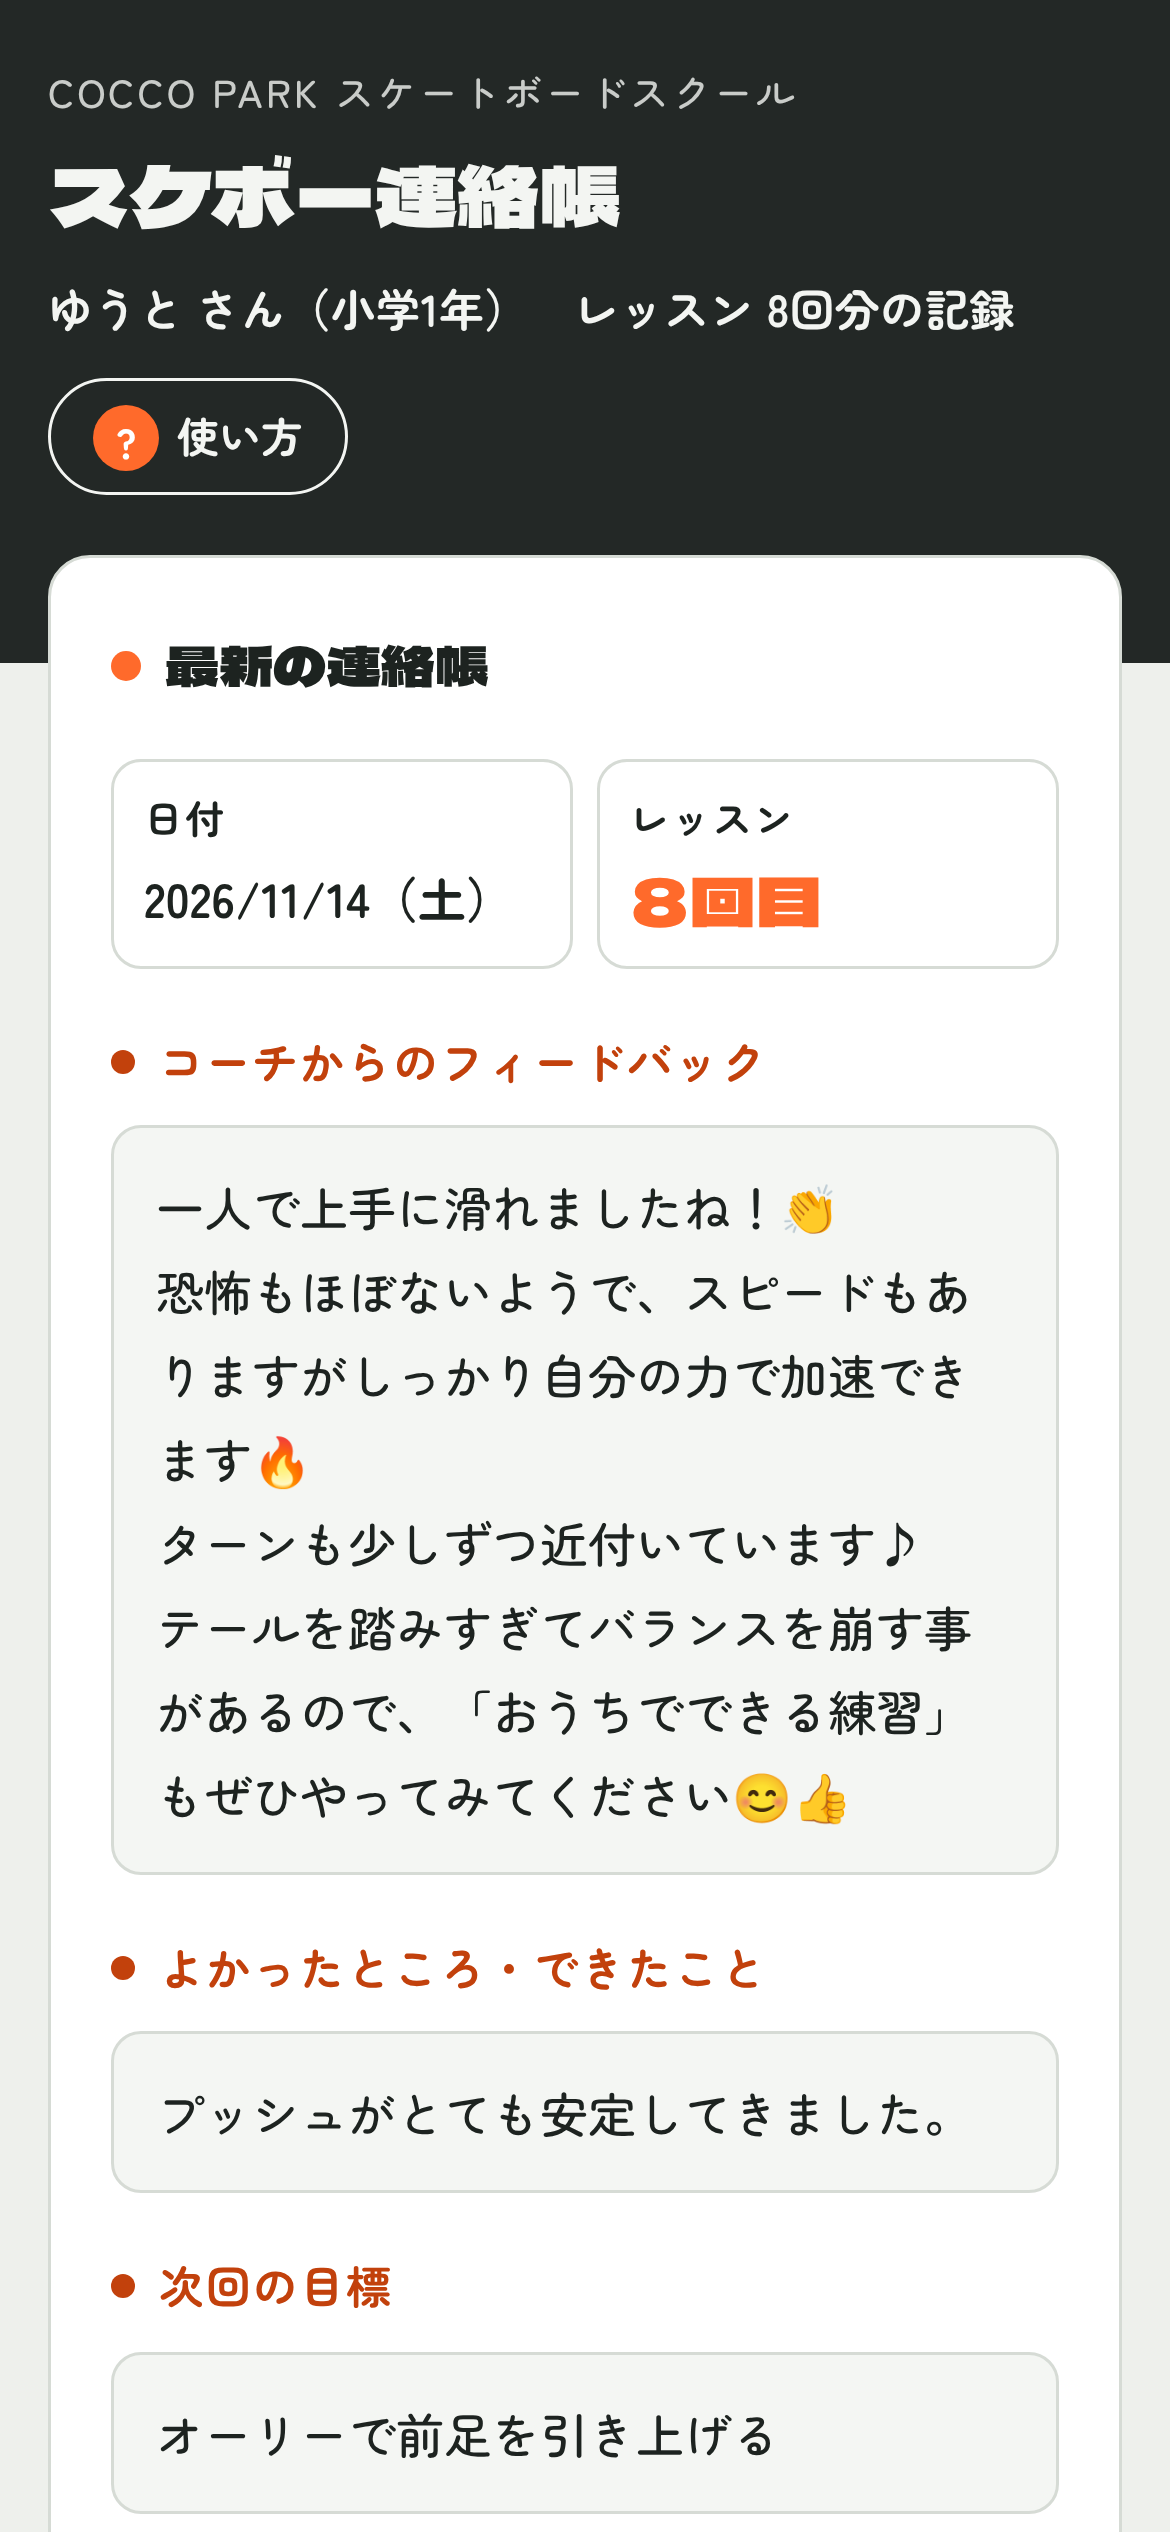
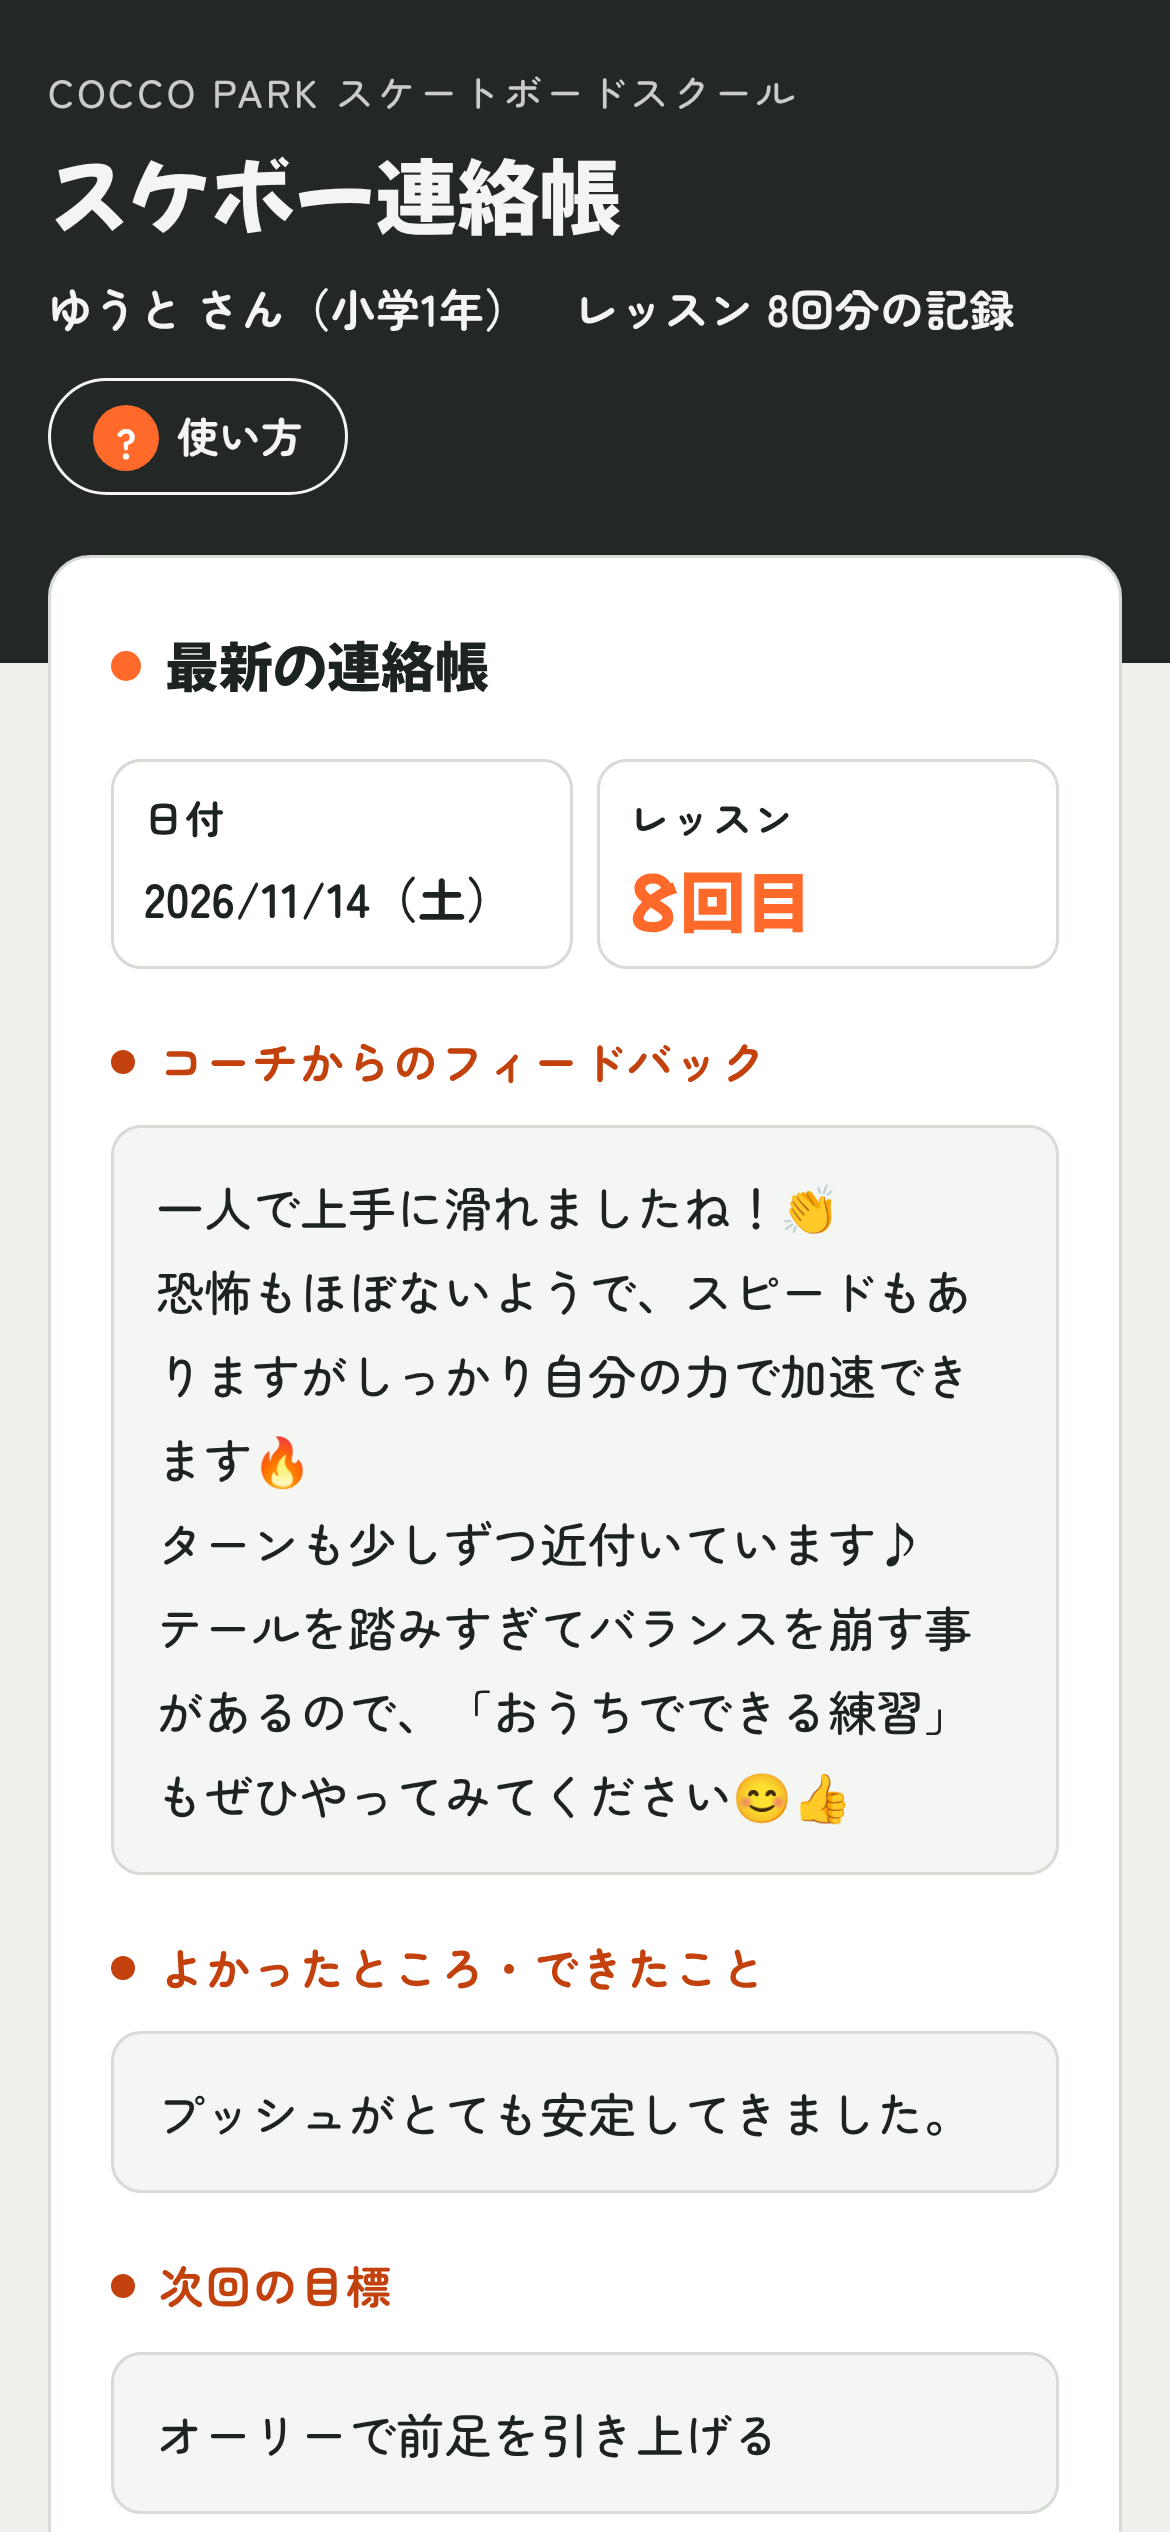
見出しの書体を漢字も読みやすい Mochiy Pop One に変更（アプリ・ストーリー画像）
Claude-Session: https://claude.ai/code/session_01SGMGqY8MmL2NLb1eiiQwRT

diff --git a/promo/story.html b/promo/story.html
@@ -3,13 +3,13 @@
 <head>
 <meta charset="utf-8">
 <title>連絡帳 ストーリー画像</title>
-<link rel="stylesheet" href="https://fonts.googleapis.com/css2?family=Dela+Gothic+One&family=Zen+Maru+Gothic:wght@500;700&display=swap">
+<link rel="stylesheet" href="https://fonts.googleapis.com/css2?family=Mochiy+Pop+One&family=Zen+Maru+Gothic:wght@500;700&display=swap">
 <style>
   /* Instagram ストーリー 1080×1920。上下の約220pxはアカウント名・返信欄がかぶるので文字を置かない */
   :root {
     --grip: #232826; --grip-2: #2c322f; --ink: #f3f5f2; --muted: #b9c2bc;
     --accent: #ff6a2b; --accent-ink: #ffffff;
-    --display: "Dela Gothic One", sans-serif; --body: "Zen Maru Gothic", sans-serif;
+    --display: "Mochiy Pop One", sans-serif; --body: "Zen Maru Gothic", sans-serif;
   }
   * { box-sizing: border-box; }
   html, body { margin: 0; }

diff --git a/coach.html b/coach.html
@@ -7,7 +7,7 @@
 <title>連絡帳 コーチ用</title>
 <link rel="preconnect" href="https://fonts.googleapis.com">
 <link rel="preconnect" href="https://fonts.gstatic.com" crossorigin>
-<link rel="stylesheet" href="https://fonts.googleapis.com/css2?family=Dela+Gothic+One&family=Zen+Maru+Gothic:wght@500;700&display=swap">
+<link rel="stylesheet" href="https://fonts.googleapis.com/css2?family=Mochiy+Pop+One&family=Zen+Maru+Gothic:wght@500;700&display=swap">
 <link rel="stylesheet" href="style.css">
 <script src="config.js"></script>
 <script src="common.js"></script>

diff --git a/index.html b/index.html
@@ -7,7 +7,7 @@
 <title>スケボー連絡帳</title>
 <link rel="preconnect" href="https://fonts.googleapis.com">
 <link rel="preconnect" href="https://fonts.gstatic.com" crossorigin>
-<link rel="stylesheet" href="https://fonts.googleapis.com/css2?family=Dela+Gothic+One&family=Zen+Maru+Gothic:wght@500;700&display=swap">
+<link rel="stylesheet" href="https://fonts.googleapis.com/css2?family=Mochiy+Pop+One&family=Zen+Maru+Gothic:wght@500;700&display=swap">
 <link rel="stylesheet" href="style.css">
 <script src="config.js"></script>
 <script src="common.js"></script>

diff --git a/guide.html b/guide.html
@@ -6,7 +6,7 @@
 <title>スケボー連絡帳の使い方</title>
 <link rel="preconnect" href="https://fonts.googleapis.com">
 <link rel="preconnect" href="https://fonts.gstatic.com" crossorigin>
-<link rel="stylesheet" href="https://fonts.googleapis.com/css2?family=Dela+Gothic+One&family=Zen+Maru+Gothic:wght@500;700&display=swap">
+<link rel="stylesheet" href="https://fonts.googleapis.com/css2?family=Mochiy+Pop+One&family=Zen+Maru+Gothic:wght@500;700&display=swap">
 <link rel="stylesheet" href="style.css">
 <script src="config.js"></script>
 <style>

diff --git a/style.css b/style.css
@@ -17,7 +17,7 @@
   --warn-ink: #7a5300;
   --insta: #c13584;
   --line-green: #06c755;
-  --display: "Dela Gothic One", "Hiragino Sans", "Yu Gothic", sans-serif;
+  --display: "Mochiy Pop One", "Hiragino Sans", "Yu Gothic", sans-serif;
   --body: "Zen Maru Gothic", "Hiragino Maru Gothic ProN", "Hiragino Sans", "Yu Gothic", "Meiryo", sans-serif;
   color-scheme: light;
 }
